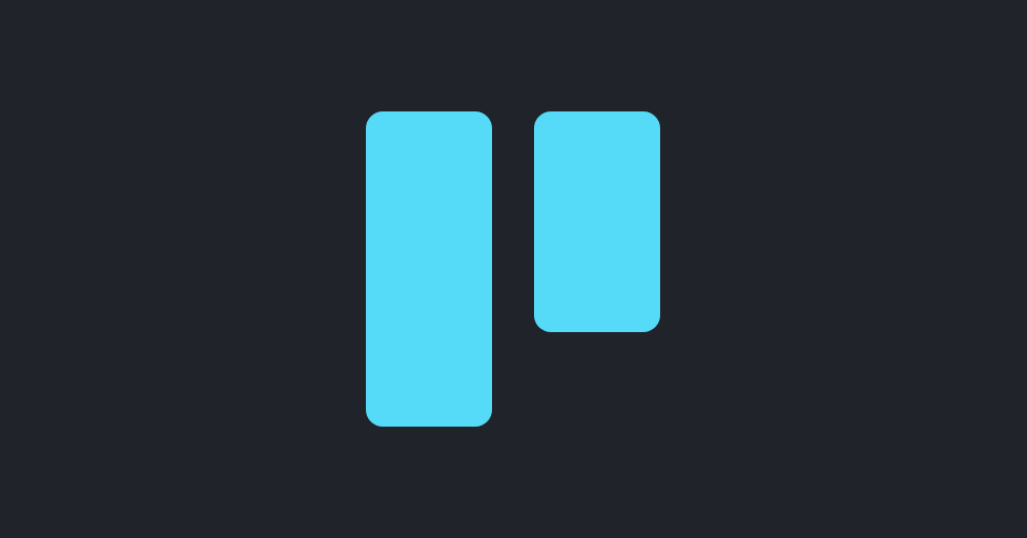
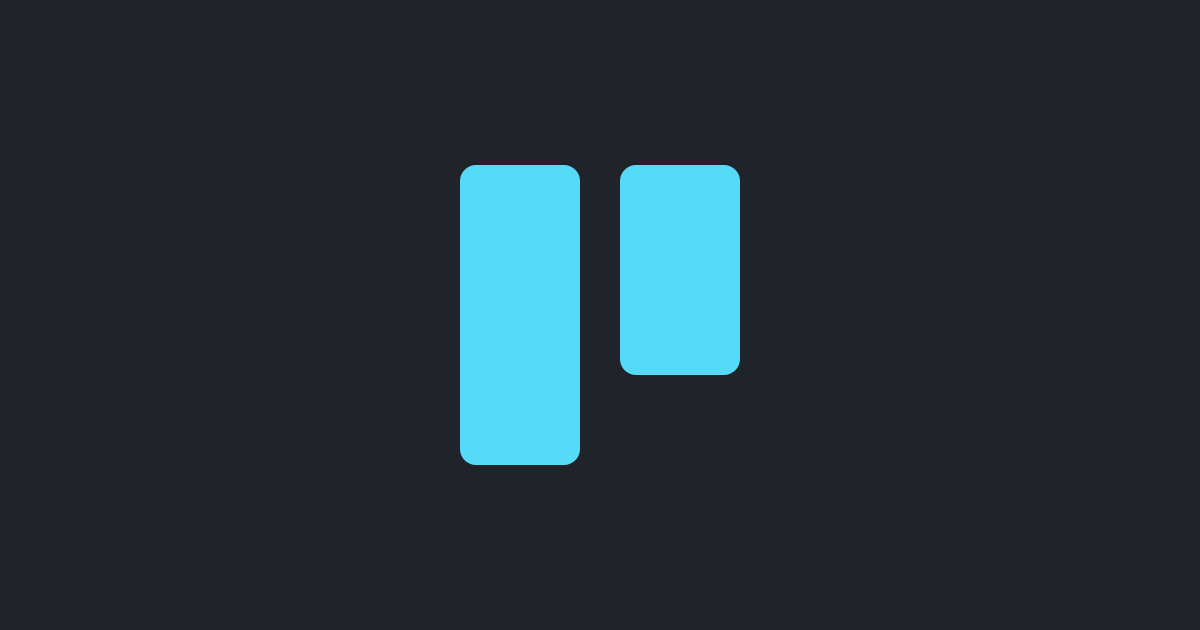
Change og-image

Changed region(s): [[0.3427, 0.2082, 0.6543, 0.803]]

diff --git a/src/html.js b/src/html.js
@@ -32,8 +32,8 @@ export default class HTML extends React.Component {
           <meta name='theme-color' content='#20242a' />
 
           <meta property='og:image' content='/og-image.jpg' />
-          <meta property='og:image:width' content='513.5' />
-          <meta property='og:image:height' content='269' />
+          <meta property='og:image:width' content='1200' />
+          <meta property='og:image:height' content='600' />
           <meta property='og:title' content='Simple Trello' />
           <meta
             property='og:description'
